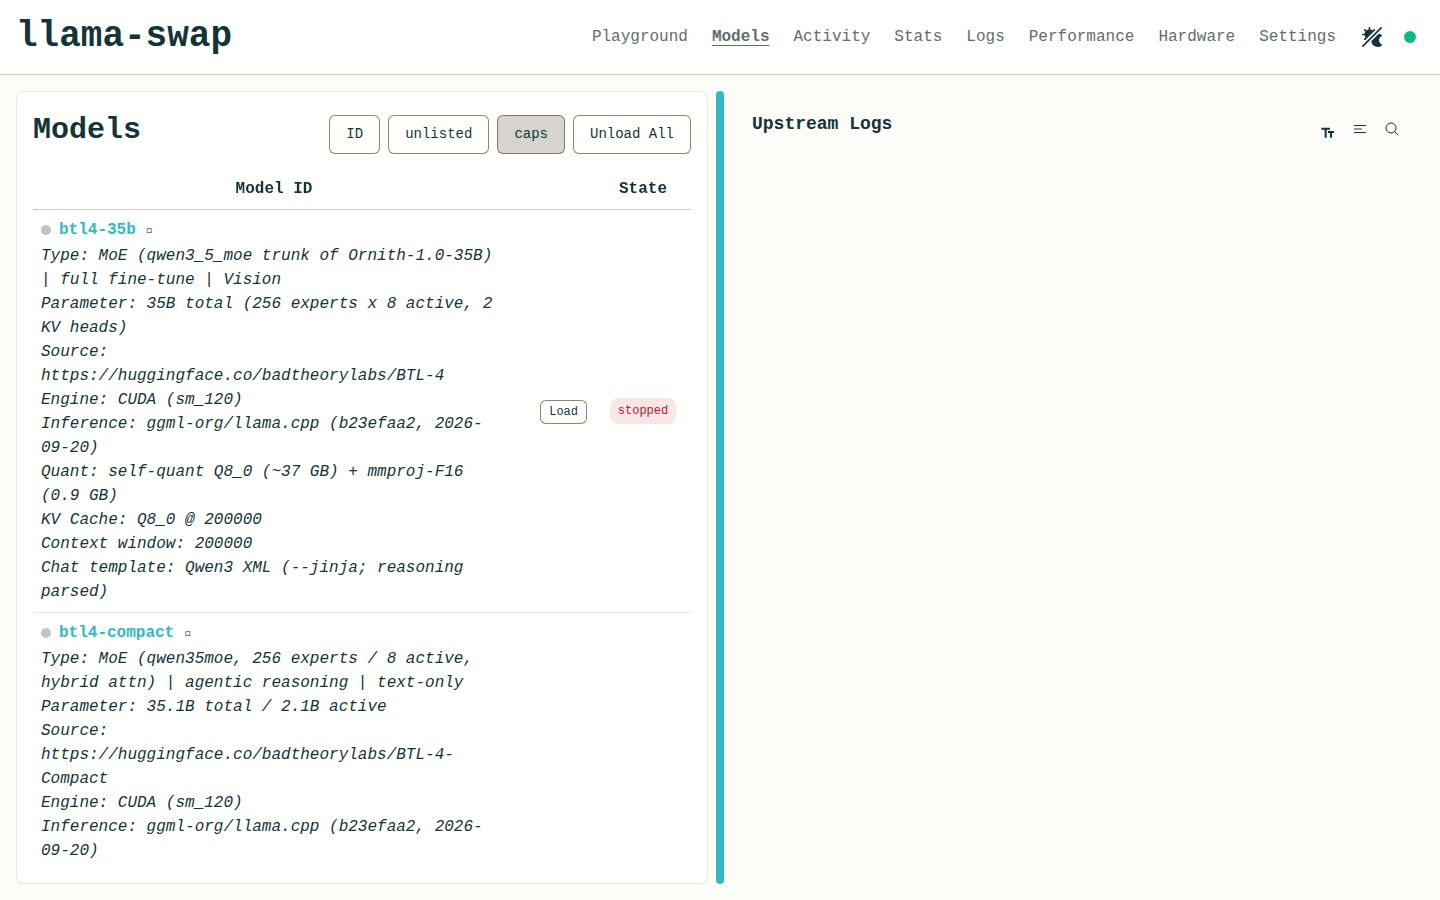
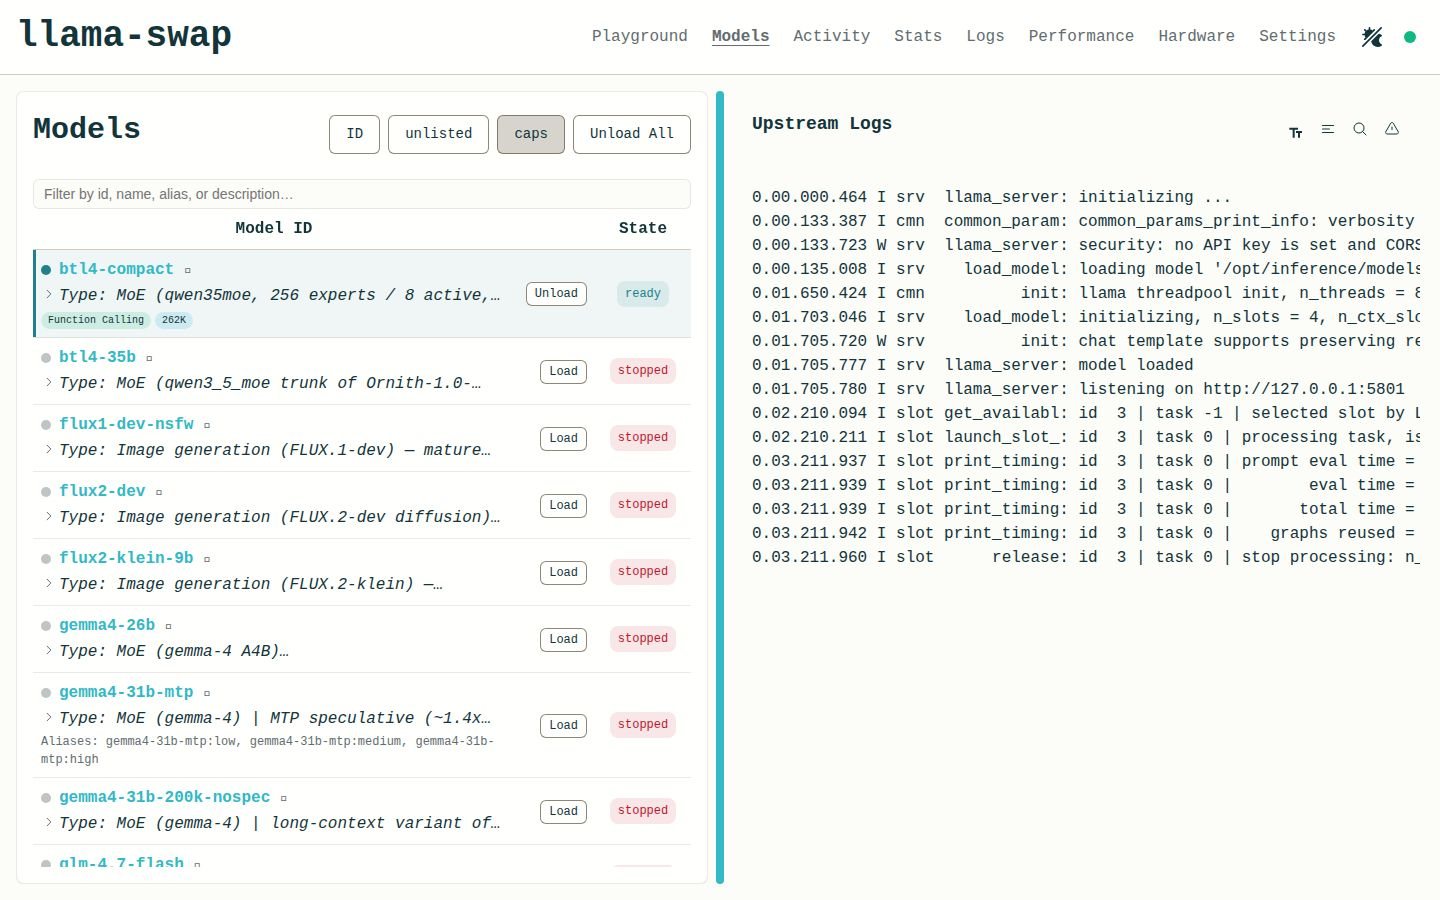
readme and screenshots

diff --git a/README.md b/README.md
@@ -100,7 +100,8 @@ Playground (chat, images, speech, transcription, rerank, load test, help):
 
 ![Playground](docs/assets/fork-playground.jpg)
 
-Models page with load/unload, states, and model descriptions:
+Models page — filter box, descriptions collapsed to the first line, capability
+badges, load/unload with live states:
 
 ![Models](docs/assets/fork-models.jpg)
 
@@ -108,17 +109,28 @@ Activity log with token metrics and captures:
 
 ![Activity](docs/assets/fork-activity.jpg)
 
-Aggregate usage stats:
+Capture viewer — a multi-part request split into separately readable parts
+(system, each message, tool definitions) with character, word, and approximate
+token counts per part:
+
+![Capture parts view](docs/assets/fork-capture-parts.jpg)
+
+Aggregate usage stats with active/inactive model split:
 
 ![Stats](docs/assets/fork-stats.jpg)
 
-Log viewer:
+Log viewer with per-panel concerns filter:
 
 ![Logs](docs/assets/fork-logs.jpg)
 
-Hardware detection:
+Hardware detection on an NVIDIA host:
 
 ![Hardware](docs/assets/fork-hardware.jpg)
+
+Hardware detection on an Intel host — Arc Pro B70 detected as Battlemage with
+dedicated memory (via xpu-smi + the PCI device-ID table), iGPU via DRM sysfs:
+
+![Hardware — Intel](docs/assets/fork-hardware-intel.jpg)
 
 ## Building from source
 
